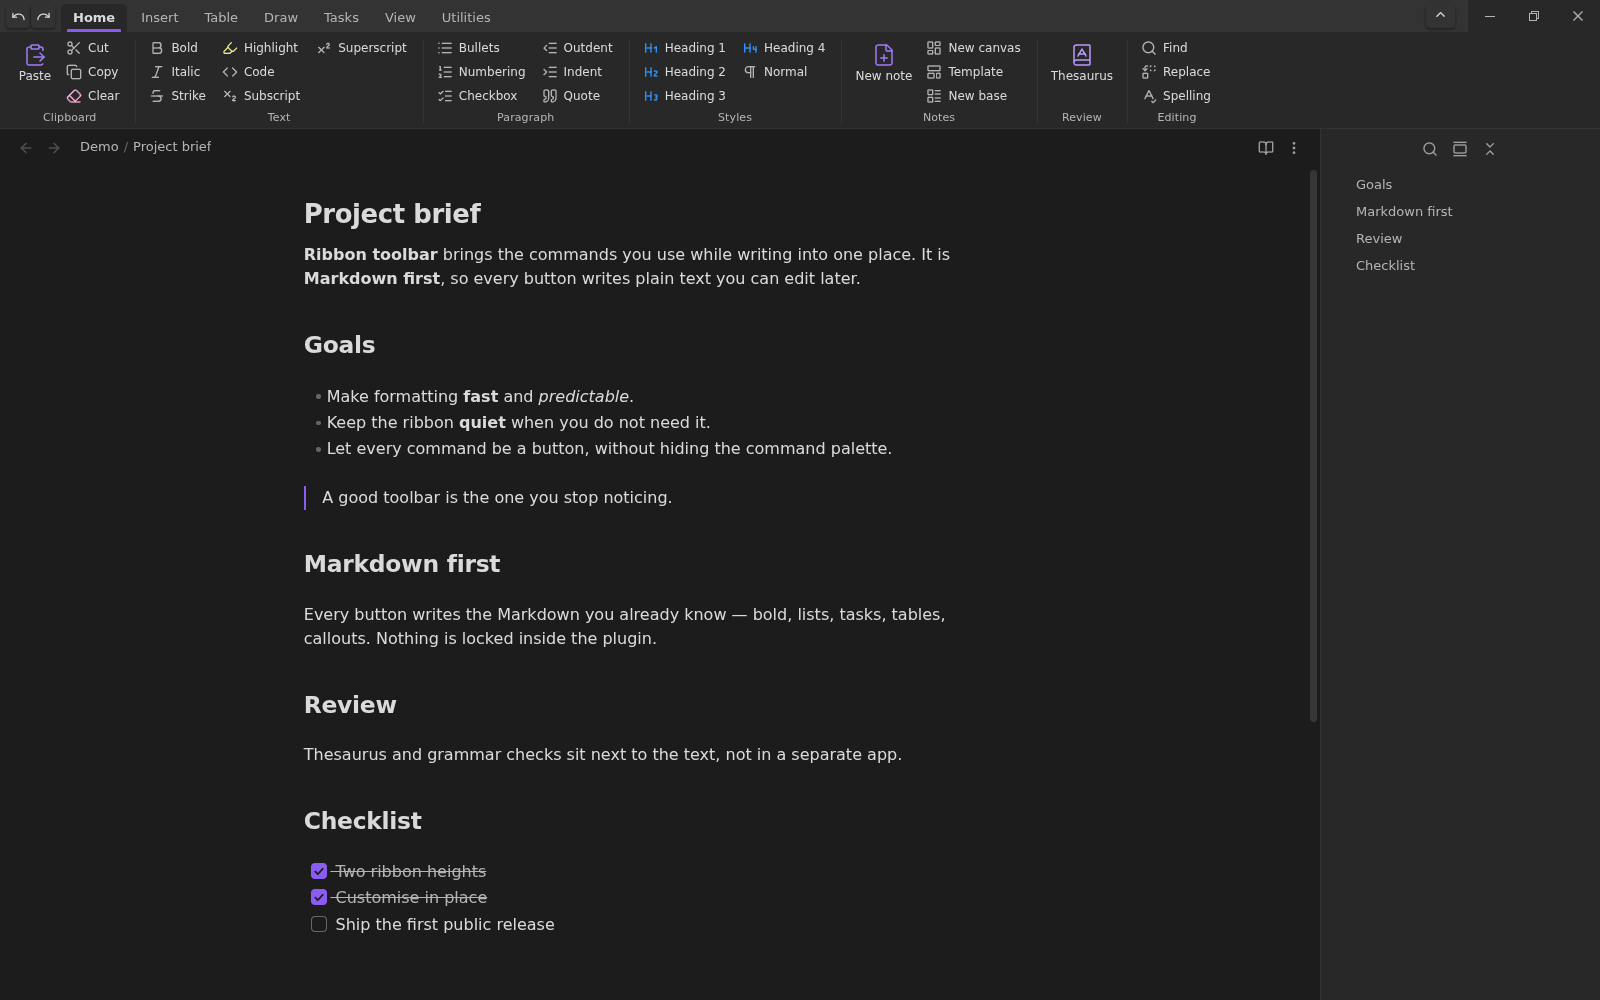
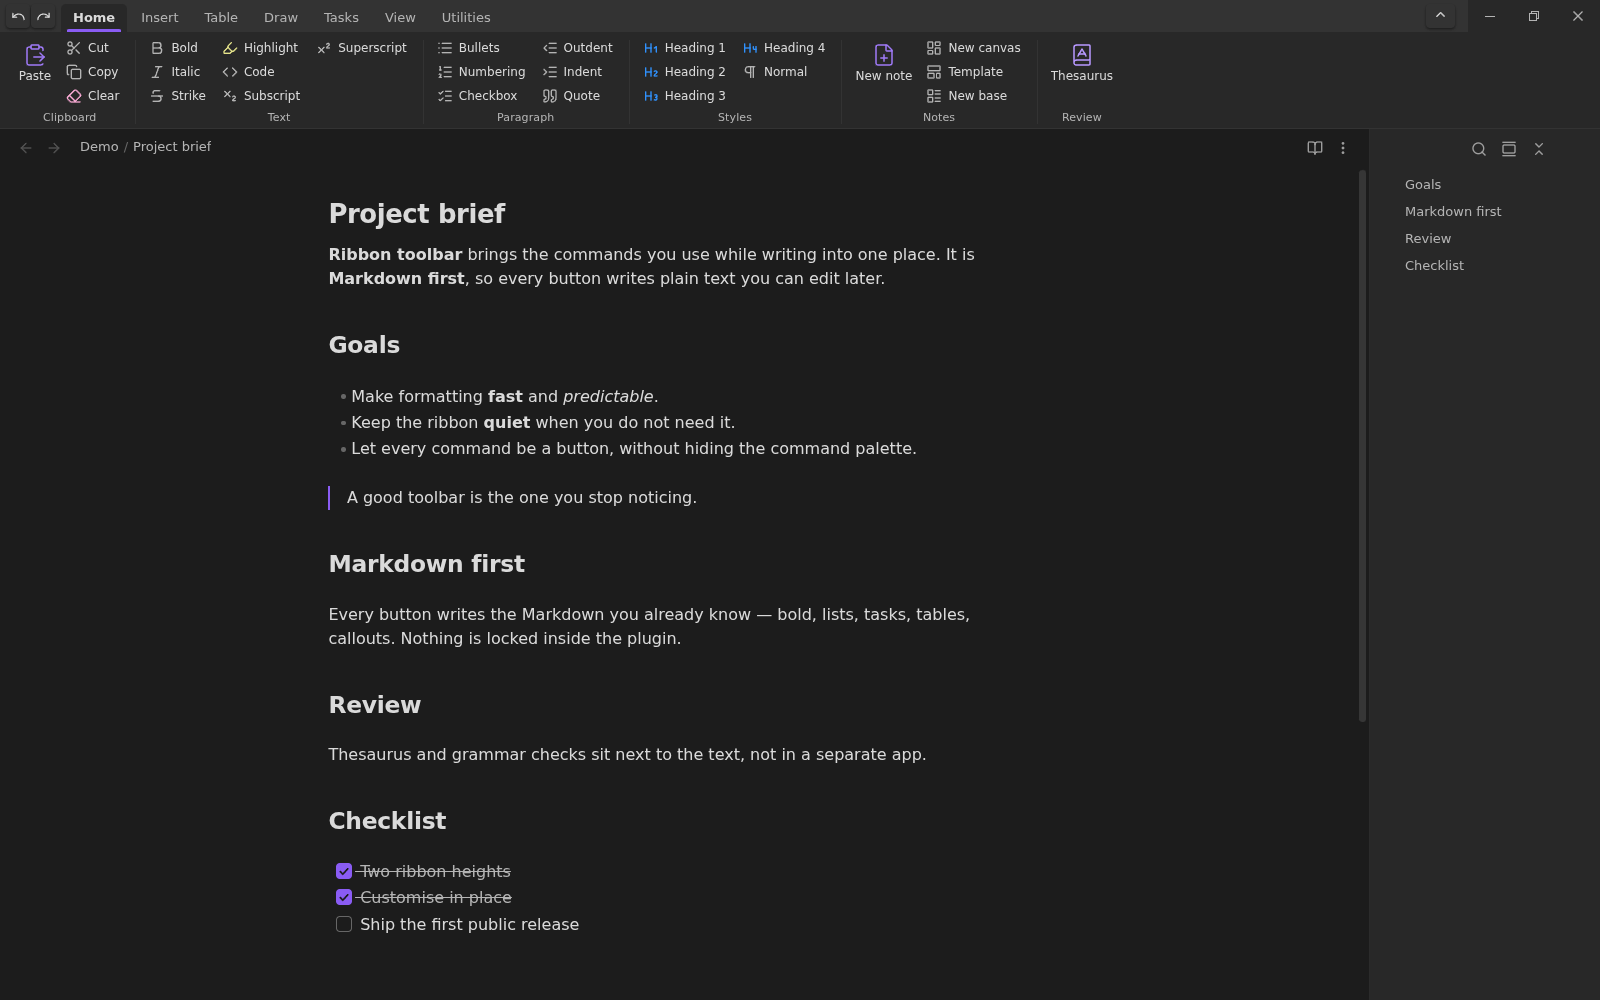
Refresh store screenshots for 0.2.1

diff --git a/README.md b/README.md
@@ -30,7 +30,7 @@ AI integrations.
 
 ## Screenshots
 
-**Home — formatting, styles, review and editing**
+**Home — formatting, styles and review**
 ![Home tab with the full ribbon](docs/screenshots/01-home.png)
 
 **Insert — the compact two-row ribbon: templates, links, blocks and pages**
